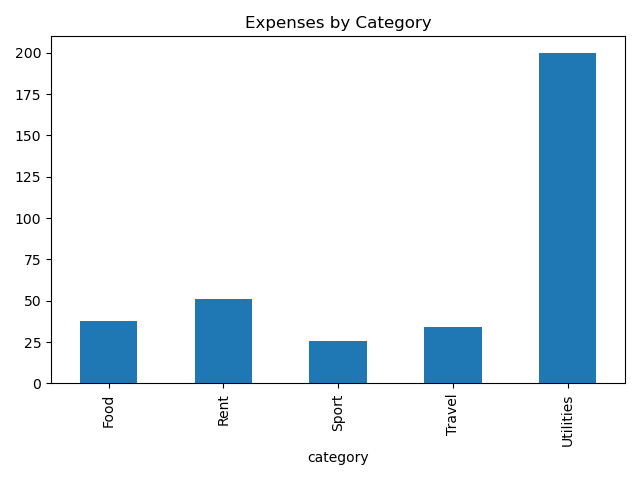
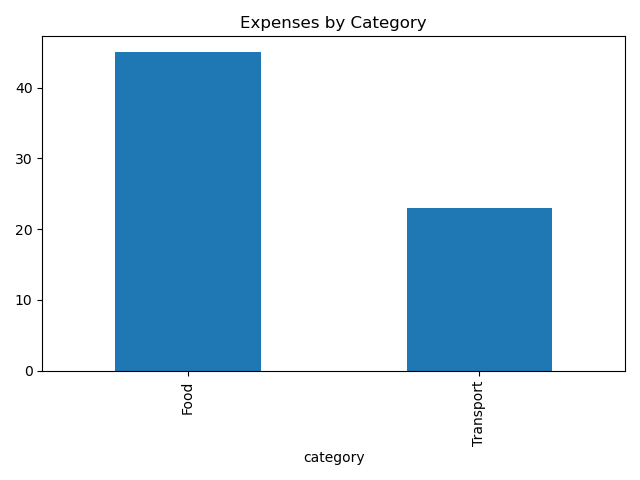
unit tests and gitignore added

diff --git a/tests/test_report.py b/tests/test_report.py
@@ -1,0 +1,44 @@
+import unittest
+import pandas as pd
+from report import summarize_by_category, summarize_monthly_yearly, plot_expenses
+
+class TestReport(unittest.TestCase):
+
+    def setUp(self):
+        # Sample DataFrame for testing
+        self.df = pd.DataFrame([
+            {"date": "2025-06-01", "category": "Food", "description": "Lunch", "amount": 10.0},
+            {"date": "2025-06-01", "category": "Transport", "description": "Taxi", "amount": 20.0},
+            {"date": "2025-06-15", "category": "Food", "description": "Dinner", "amount": 30.0},
+            {"date": "2025-07-01", "category": "Food", "description": "Snack", "amount": 5.0},
+            {"date": "2024-12-01", "category": "Transport", "description": "Bus", "amount": 3.0},
+        ])
+        self.df['date'] = pd.to_datetime(self.df['date'])  # Convert 'date' column to datetime
+
+    def test_summarize_by_category(self):
+        result = summarize_by_category(self.df)
+        expected = pd.DataFrame({
+            'category': ['Food', 'Transport'],
+            'amount': [45.0, 23.0]
+        })
+        pd.testing.assert_frame_equal(result.sort_values('category').reset_index(drop=True),
+                                      expected.sort_values('category').reset_index(drop=True))
+
+    def test_summarize_monthly_yearly(self):
+        result = summarize_monthly_yearly(self.df)
+        expected = pd.DataFrame({
+            'year': [2024, 2025, 2025],
+            'month': [12, 6, 7],
+            'amount': [3.0, 60.0, 5.0]
+        })
+        pd.testing.assert_frame_equal(result.sort_values(['year', 'month']).reset_index(drop=True),
+                                      expected.sort_values(['year', 'month']).reset_index(drop=True))
+
+    def test_plot_expenses_runs(self):
+        try:
+            plot_expenses(self.df)
+        except Exception as e:
+            self.fail(f"plot_expenses() raised an exception: {e}")
+
+if __name__ == '__main__':
+    unittest.main()

diff --git a/tests/test_storage.py b/tests/test_storage.py
@@ -1,0 +1,36 @@
+import unittest
+import tempfile
+import os
+import pandas as pd
+from expense import Expense
+from storage import store_expense, load_expense
+
+class TestStorage(unittest.TestCase):
+
+    def setUp(self):
+        # Create a temporary file for testing
+        self.test_file = tempfile.NamedTemporaryFile(delete=False, suffix=".csv")
+        self.test_file.close()  # Close so it can be used elsewhere
+        self.expense = Expense("01-06-2025", "Food", "Lunch", 12.50)
+
+    def tearDown(self):
+        # Clean up the temporary file
+        os.remove(self.test_file.name)
+
+    def test_store_and_load_expense(self):
+        # Store one expense
+        store_expense(self.expense, filename=self.test_file.name)
+
+        # Load it back
+        df = load_expense(self.test_file.name)
+
+        # Check if one row is loaded
+        self.assertEqual(len(df), 1)
+
+        # Check data matches
+        row = df.iloc[0]
+        self.assertEqual(row['category'], "Food")
+        self.assertEqual(row['description'], "Lunch")
+        self.assertEqual(row['amount'], 12.50)
+        self.assertEqual(row['date'].date(), self.expense.date.date())
+

diff --git a/tests/test_expense.py b/tests/test_expense.py
@@ -1,0 +1,26 @@
+import unittest
+from expense import Expense
+import datetime
+
+class TestExpense(unittest.TestCase):
+
+    def test_expense_creation(self):
+        expense = Expense("01-06-2025", "Food", "Lunch", 12.50)
+        self.assertEqual(expense.date, datetime.datetime(2025, 6, 1))
+        self.assertEqual(expense.category, "Food")
+        self.assertEqual(expense.description, "Lunch")
+        self.assertEqual(expense.amount, 12.50)
+
+    def test_to_dict(self):
+        expense = Expense("01-06-2025", "Transport", "Bus ticket", 3.00)
+        result = expense.to_dict()
+        expected = {
+            "date": datetime.datetime(2025, 6, 1),
+            "category": "Transport",
+            "description": "Bus ticket",
+            "amount": 3.00
+        }
+        self.assertEqual(result, expected)
+
+if __name__ == "__main__":
+    unittest.main()

diff --git a/storage.py b/storage.py
@@ -3,11 +3,10 @@ import csv
 import pandas as pd
 
 
-def store_expense(expense):
-    csv_file = 'expenses.csv'
+def store_expense(expense, filename='expenses.csv'):
     data = expense.to_dict()
     data['date'] = data['date'].strftime("%Y-%m-%d")  # convert datetime to string
-    with open(csv_file, mode='a', newline='') as file:
+    with open(filename, mode='a', newline='') as file:
         writer = csv.DictWriter(file, fieldnames=data.keys())
         if file.tell() == 0:  # Check if file is empty
             writer.writeheader()  # Write header only if file is empty

diff --git a/README.md b/README.md
@@ -25,3 +25,8 @@ What do you want to do?
 3. Show expense plot
 4. Exit
 </pre>
+
+Run tests 
+<pre lang="markdown">
+python -m unittest discover -s tests
+</pre>
